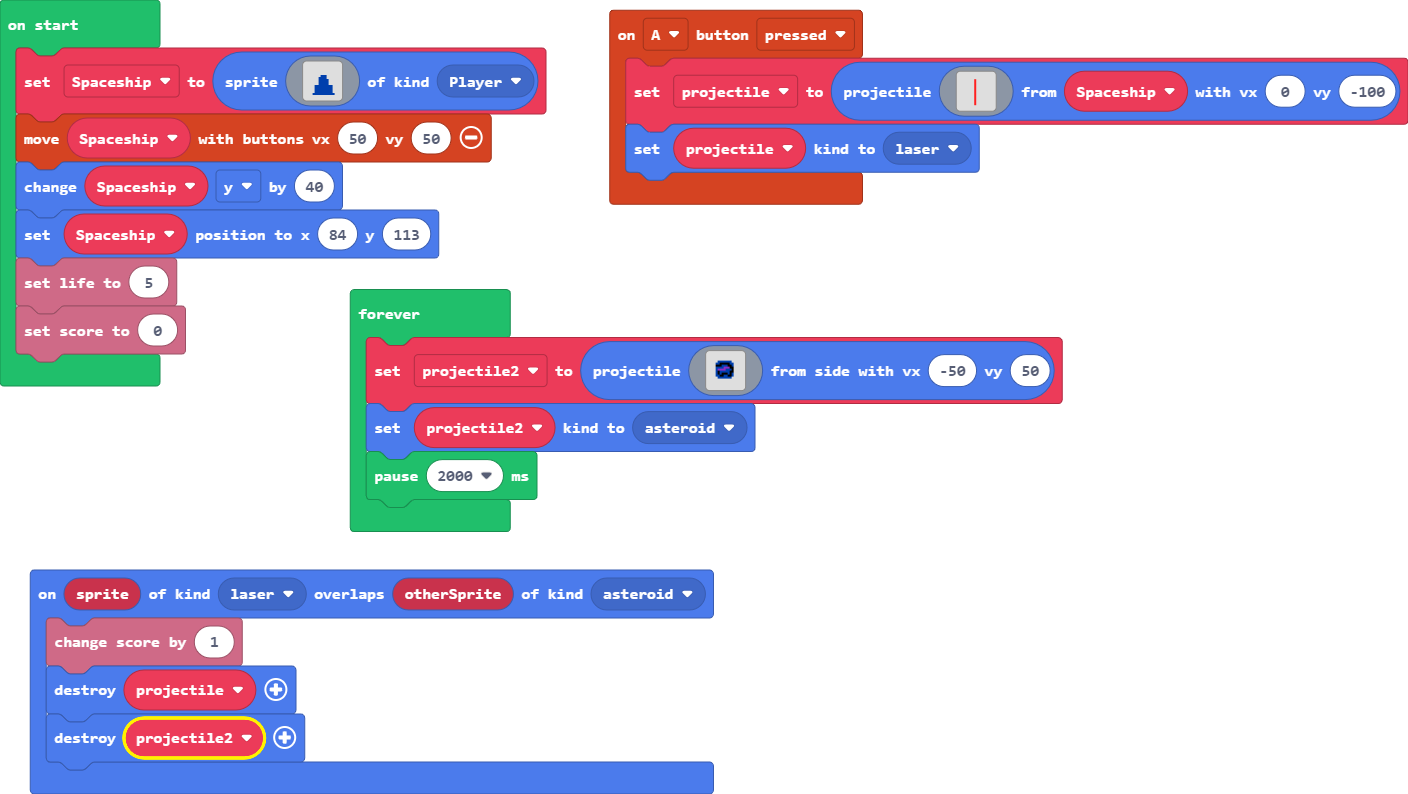
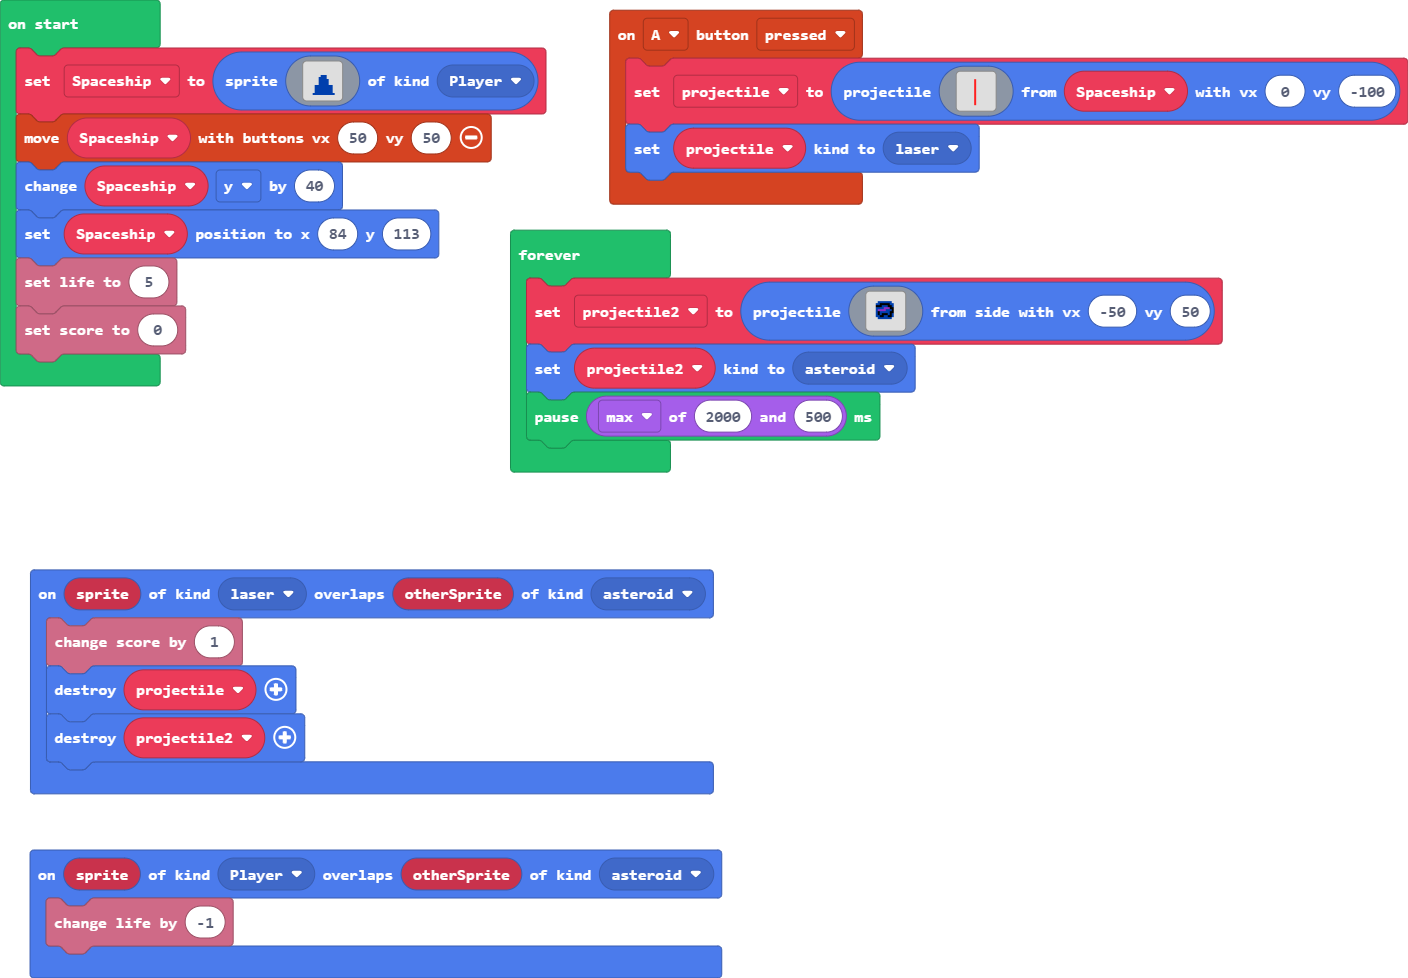
Update main.blocks, main.ts

diff --git a/main.ts b/main.ts
@@ -28,6 +28,9 @@ controller.A.onEvent(ControllerButtonEvent.Pressed, function () {
         `, Spaceship, 0, -100)
     projectile.setKind(SpriteKind.laser)
 })
+sprites.onOverlap(SpriteKind.Player, SpriteKind.asteroid, function (sprite, otherSprite) {
+    info.changeLifeBy(-1)
+})
 let projectile2: Sprite = null
 let projectile: Sprite = null
 let Spaceship: Sprite = null
@@ -74,5 +77,5 @@ forever(function () {
         . . . . . . . . . . . . . . . . 
         `, -50, 50)
     projectile2.setKind(SpriteKind.asteroid)
-    pause(2000)
+    pause(Math.max(2000, 500))
 })
